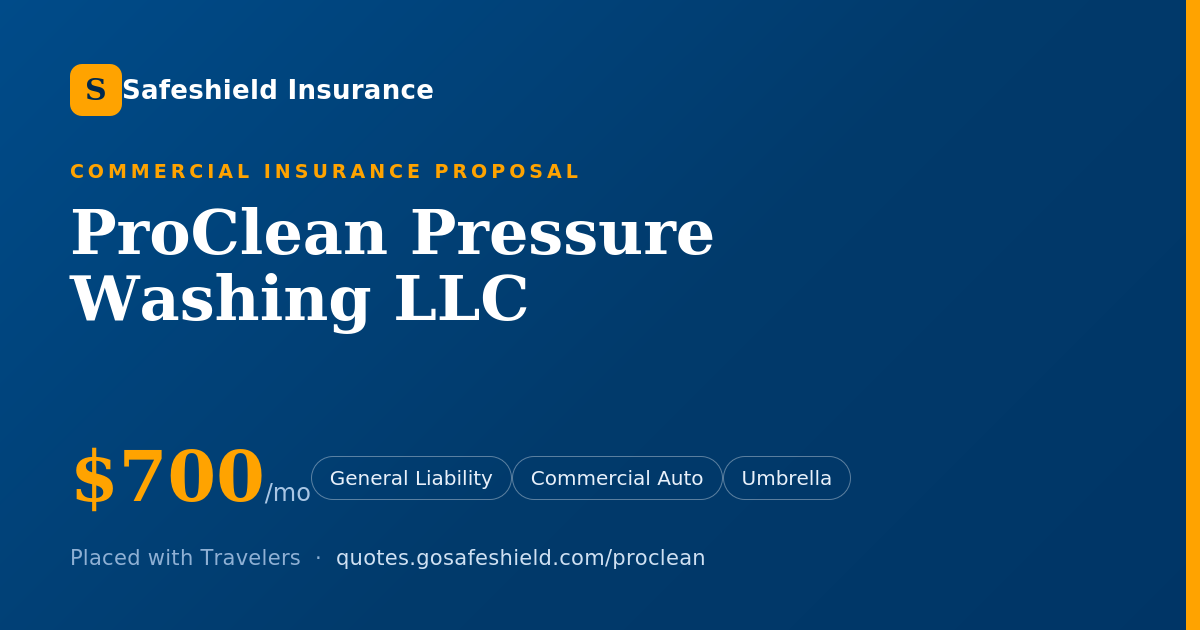
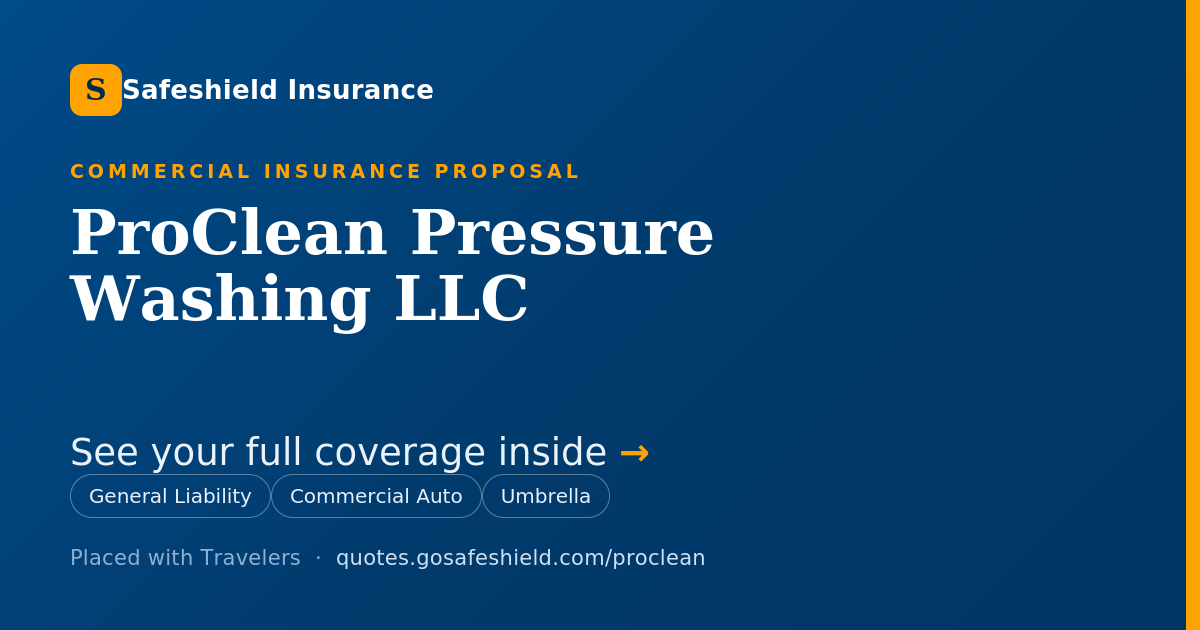
proclean: teaser preview card, remove cost from thumbnail

Changed region(s): [[0.0617, 0.6937, 0.5858, 0.8143], [0.5858, 0.7238, 0.7092, 0.7841]]

diff --git a/proclean/index.html b/proclean/index.html
@@ -8,13 +8,13 @@
 <meta property="og:type" content="website">
 <meta property="og:url" content="https://quotes.gosafeshield.com/proclean/">
 <meta property="og:title" content="Coverage Proposal · ProClean Pressure Washing LLC">
-<meta property="og:description" content="Your commercial program from Safeshield: general liability, commercial auto, tools &amp; equipment, and umbrella. From $700/mo.">
+<meta property="og:description" content="See your full coverage inside: general liability, commercial auto, tools &amp; equipment, and umbrella, placed with Travelers.">
 <meta property="og:image" content="https://quotes.gosafeshield.com/proclean/preview.png">
 <meta property="og:image:width" content="1200">
 <meta property="og:image:height" content="630">
 <meta name="twitter:card" content="summary_large_image">
 <meta name="twitter:title" content="Coverage Proposal · ProClean Pressure Washing LLC">
-<meta name="twitter:description" content="Safeshield commercial program: general liability, commercial auto, tools &amp; equipment, and umbrella. From $700/mo.">
+<meta name="twitter:description" content="See your full coverage inside: general liability, commercial auto, tools &amp; equipment, and umbrella, placed with Travelers.">
 <meta name="twitter:image" content="https://quotes.gosafeshield.com/proclean/preview.png">
 <link rel="preconnect" href="https://fonts.googleapis.com">
 <link rel="preconnect" href="https://fonts.gstatic.com" crossorigin>
